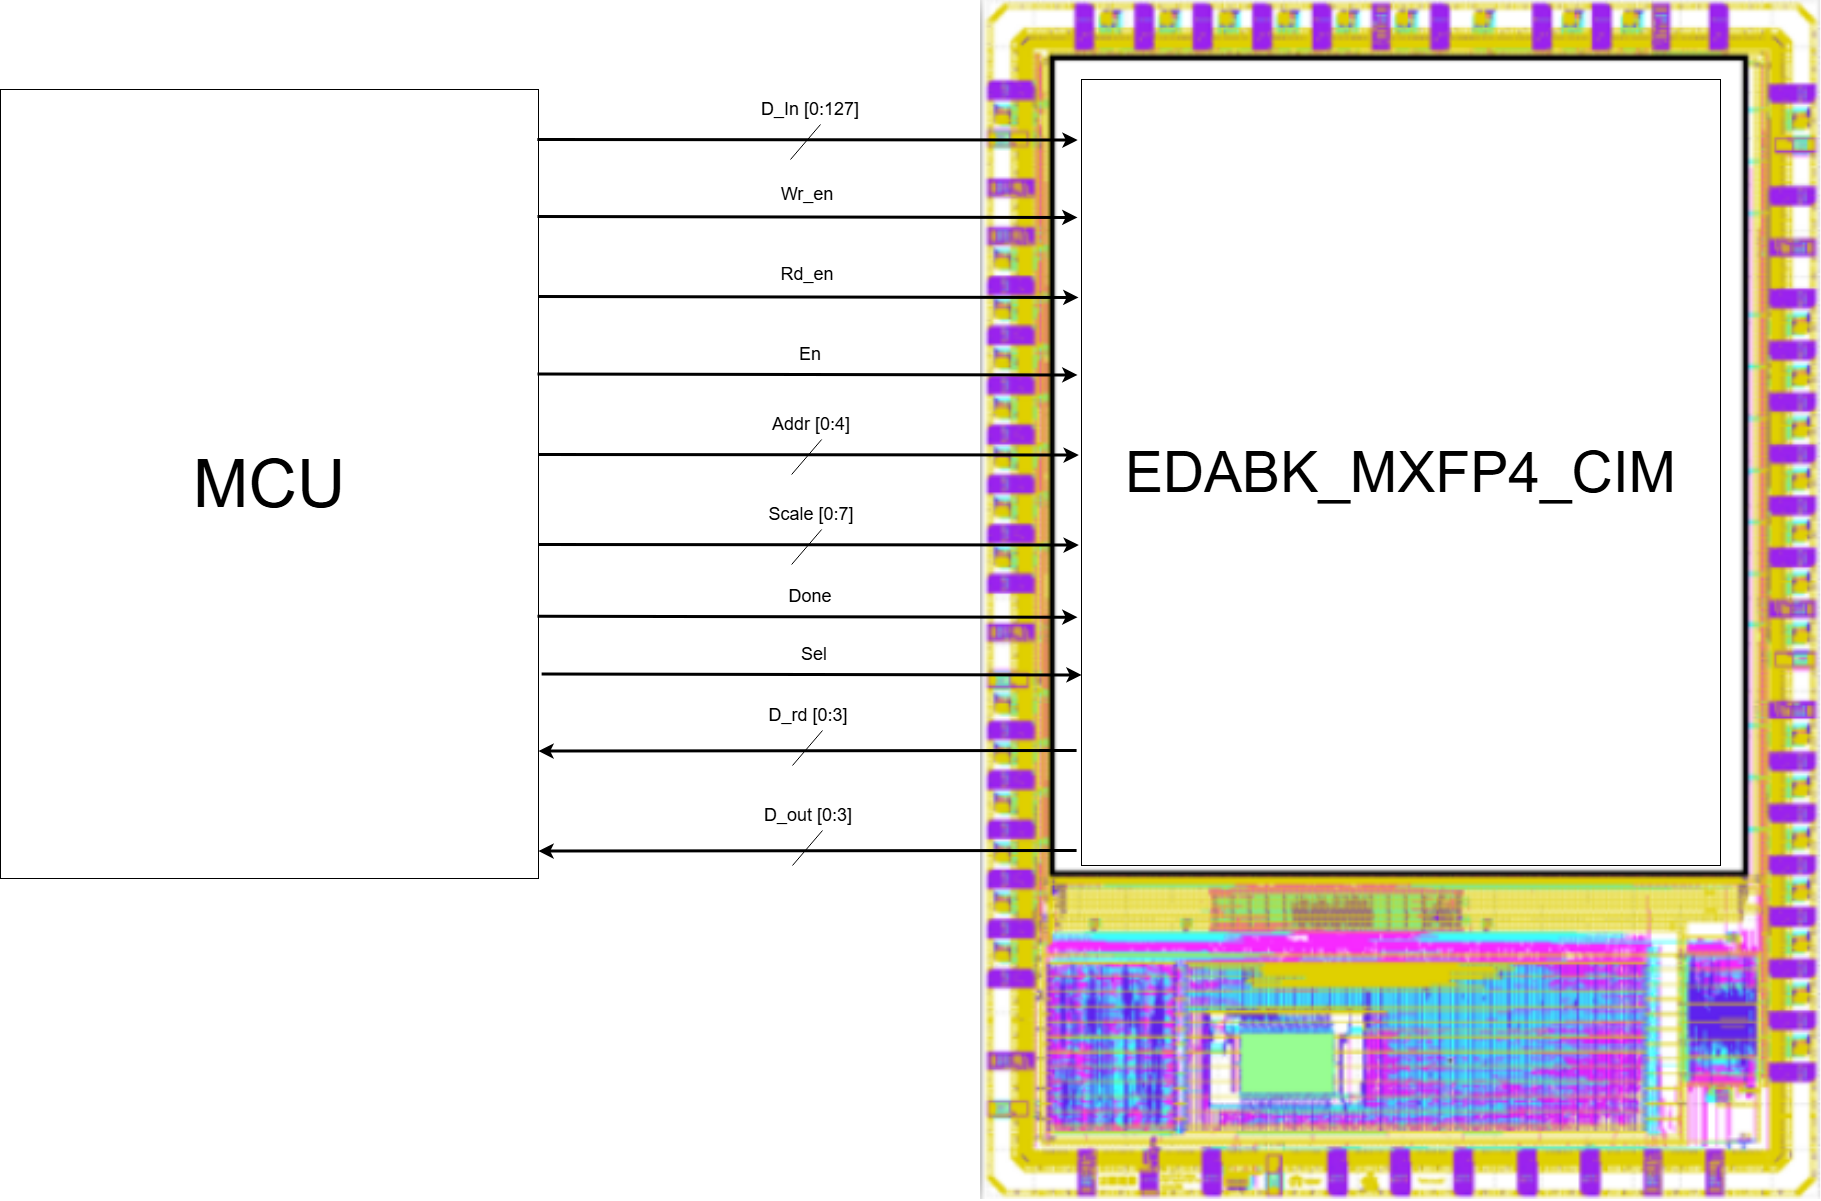
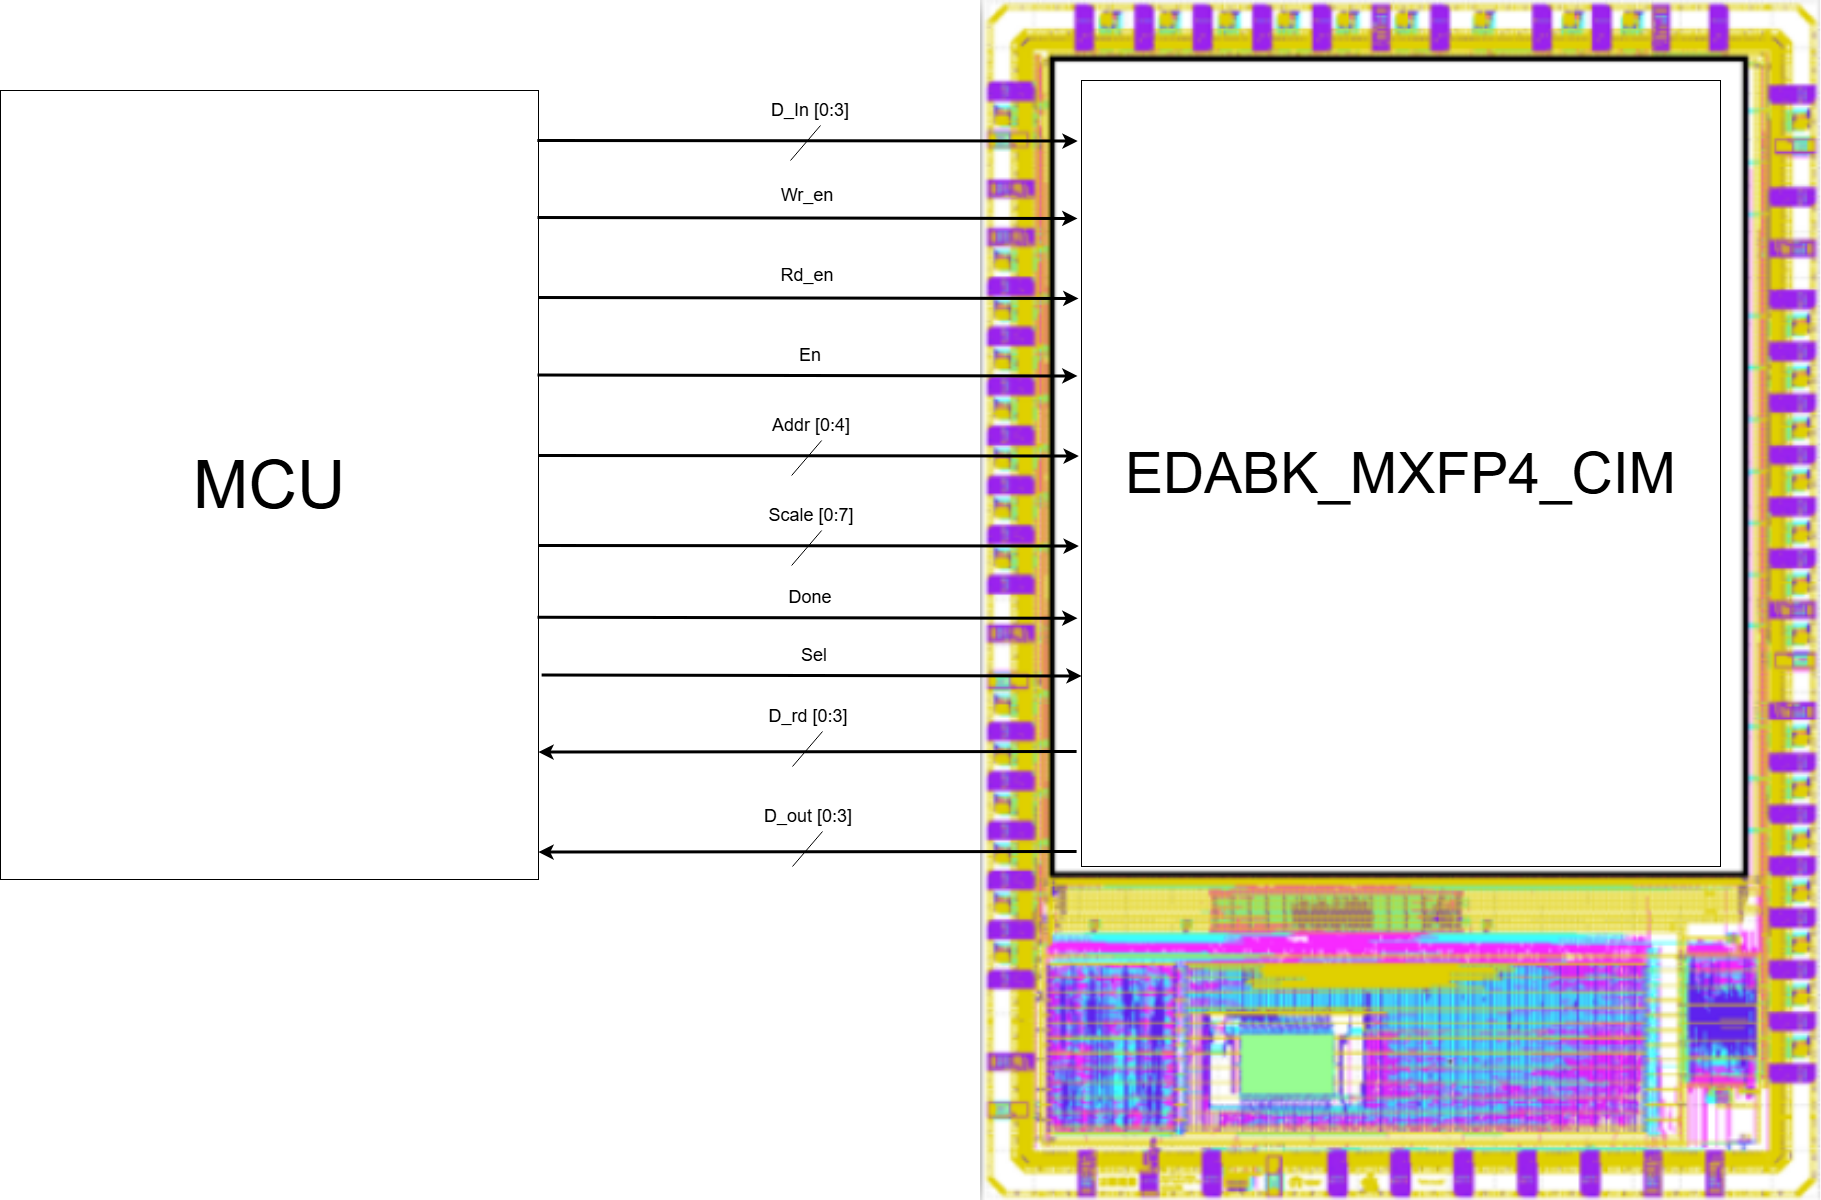
Update README.md

diff --git a/README.md b/README.md
@@ -85,9 +85,99 @@ Ensure your environment meets the following requirements:
 
 ## System Block Diagram
 
-![EDABK_MXFP4_CIM's Block Diagram](img/Block.png)
-![EDABK_MXFP4_CIM's write and CIM operation](img/wave_Cim.png)
-![EDABK_MXFP4_CIM's read operation](img/wave_Read.png)
+<p align="center">
+<img src="img/Block.png" alt="EDABK_MXFP4_CIM's Block Diagram" width="800"/>
+</p>
+
+<p align="center">
+<table style="border-collapse: collapse; border: none; margin-left: auto; margin-right: auto; width: 90%;">
+<thead>
+<tr style="border-bottom: 2px solid #4C6EF5; background-color: rgba(76, 110, 245, 0.1);">
+<th align="left" style="padding: 12px; border: none;">Signal Name</th>
+<th align="center" style="padding: 12px; border: none;">Direction</th>
+<th align="center" style="padding: 12px; border: none;">Width</th>
+<th align="left" style="padding: 12px; border: none;">Description</th>
+</tr>
+</thead>
+<tbody>
+<tr style="border-bottom: 1px solid #eee;">
+<td style="padding: 10px; border: none;"><b>D_in</b></td>
+<td align="center" style="padding: 10px; border: none;">Input</td>
+<td align="center" style="padding: 10px; border: none;">4-bit</td>
+<td style="padding: 10px; border: none;">Data input bus for MXFP4 inputs and weights.</td>
+</tr>
+<tr style="border-bottom: 1px solid #eee;">
+<td style="padding: 10px; border: none;"><b>Wr_en</b></td>
+<td align="center" style="padding: 10px; border: none;">Input</td>
+<td align="center" style="padding: 10px; border: none;">1-bit</td>
+<td style="padding: 10px; border: none;">Write Enable: Used to load weight data into memory.</td>
+</tr>
+<tr style="border-bottom: 1px solid #eee;">
+<td style="padding: 10px; border: none;"><b>Rd_en</b></td>
+<td align="center" style="padding: 10px; border: none;">Input</td>
+<td align="center" style="padding: 10px; border: none;">1-bit</td>
+<td style="padding: 10px; border: none;">Read Enable: Standard memory access to verify stored weight values.</td>
+</tr>
+<tr style="border-bottom: 1px solid #eee;">
+<td style="padding: 10px; border: none;"><b>En</b></td>
+<td align="center" style="padding: 10px; border: none;">Input</td>
+<td align="center" style="padding: 10px; border: none;">1-bit</td>
+<td style="padding: 10px; border: none;">Operations Enable for the Computing-In-Memory (CIM) macro.</td>
+</tr>
+<tr style="border-bottom: 1px solid #eee;">
+<td style="padding: 10px; border: none;"><b>Addr</b></td>
+<td align="center" style="padding: 10px; border: none;">Input</td>
+<td align="center" style="padding: 10px; border: none;">5-bit</td>
+<td style="padding: 10px; border: none;">Column Address Decoder (Supports 32 columns).</td>
+</tr>
+<tr style="border-bottom: 1px solid #eee;">
+<td style="padding: 10px; border: none;"><b>Scale</b></td>
+<td align="center" style="padding: 10px; border: none;">Input</td>
+<td align="center" style="padding: 10px; border: none;">8-bit</td>
+<td style="padding: 10px; border: none;">Scaling factor for MXFP4 quantization and normalization process.</td>
+</tr>
+<tr style="border-bottom: 1px solid #eee;">
+<td style="padding: 10px; border: none;"><b>Done</b></td>
+<td align="center" style="padding: 10px; border: none;">Output</td>
+<td align="center" style="padding: 10px; border: none;">1-bit</td>
+<td style="padding: 10px; border: none;">Indicates completion of MAC accumulation and quantization.</td>
+</tr>
+<tr style="border-bottom: 1px solid #eee;">
+<td style="padding: 10px; border: none;"><b>Sel</b></td>
+<td align="center" style="padding: 10px; border: none;">Input</td>
+<td align="center" style="padding: 10px; border: none;">1-bit</td>
+<td style="padding: 10px; border: none;">Mode Select: Switch between Weight Loading and CIM Computation mode.</td>
+</tr>
+<tr style="border-bottom: 1px solid #eee;">
+<td style="padding: 10px; border: none;"><b>D_rd</b></td>
+<td align="center" style="padding: 10px; border: none;">Output</td>
+<td align="center" style="padding: 10px; border: none;">4-bit</td>
+<td style="padding: 10px; border: none;">Standard data output for memory read-back operations.</td>
+</tr>
+<tr style="border-bottom: 1px solid #eee;">
+<td style="padding: 10px; border: none;"><b>D_out</b></td>
+<td align="center" style="padding: 10px; border: none;">Output</td>
+<td align="center" style="padding: 10px; border: none;">4-bit</td>
+<td style="padding: 10px; border: none;">Final computed MXFP4 result from the CIM core.</td>
+</tr>
+</tbody>
+</table>
+</p>
+
+<p align="center">
+  <table border="0" style="border-collapse: collapse; border: none; margin-left: auto; margin-right: auto; width: 100%;">
+    <tr>
+      <td align="center" style="border: none; width: 50%; padding: 5px;">
+        <img src="img/wave_Cim.png" alt="CIM operation" style="width: 100%; border-radius: 4px;"/>
+        <br><em>CIM Operation Waveform</em>
+      </td>
+      <td align="center" style="border: none; width: 50%; padding: 5px;">
+        <img src="img/wave_Read.png" alt="Read operation" style="width: 100%; border-radius: 4px;"/>
+        <br><em>Read Operation Waveform</em>
+      </td>
+    </tr>
+  </table>
+</p>
 
 ---
 
